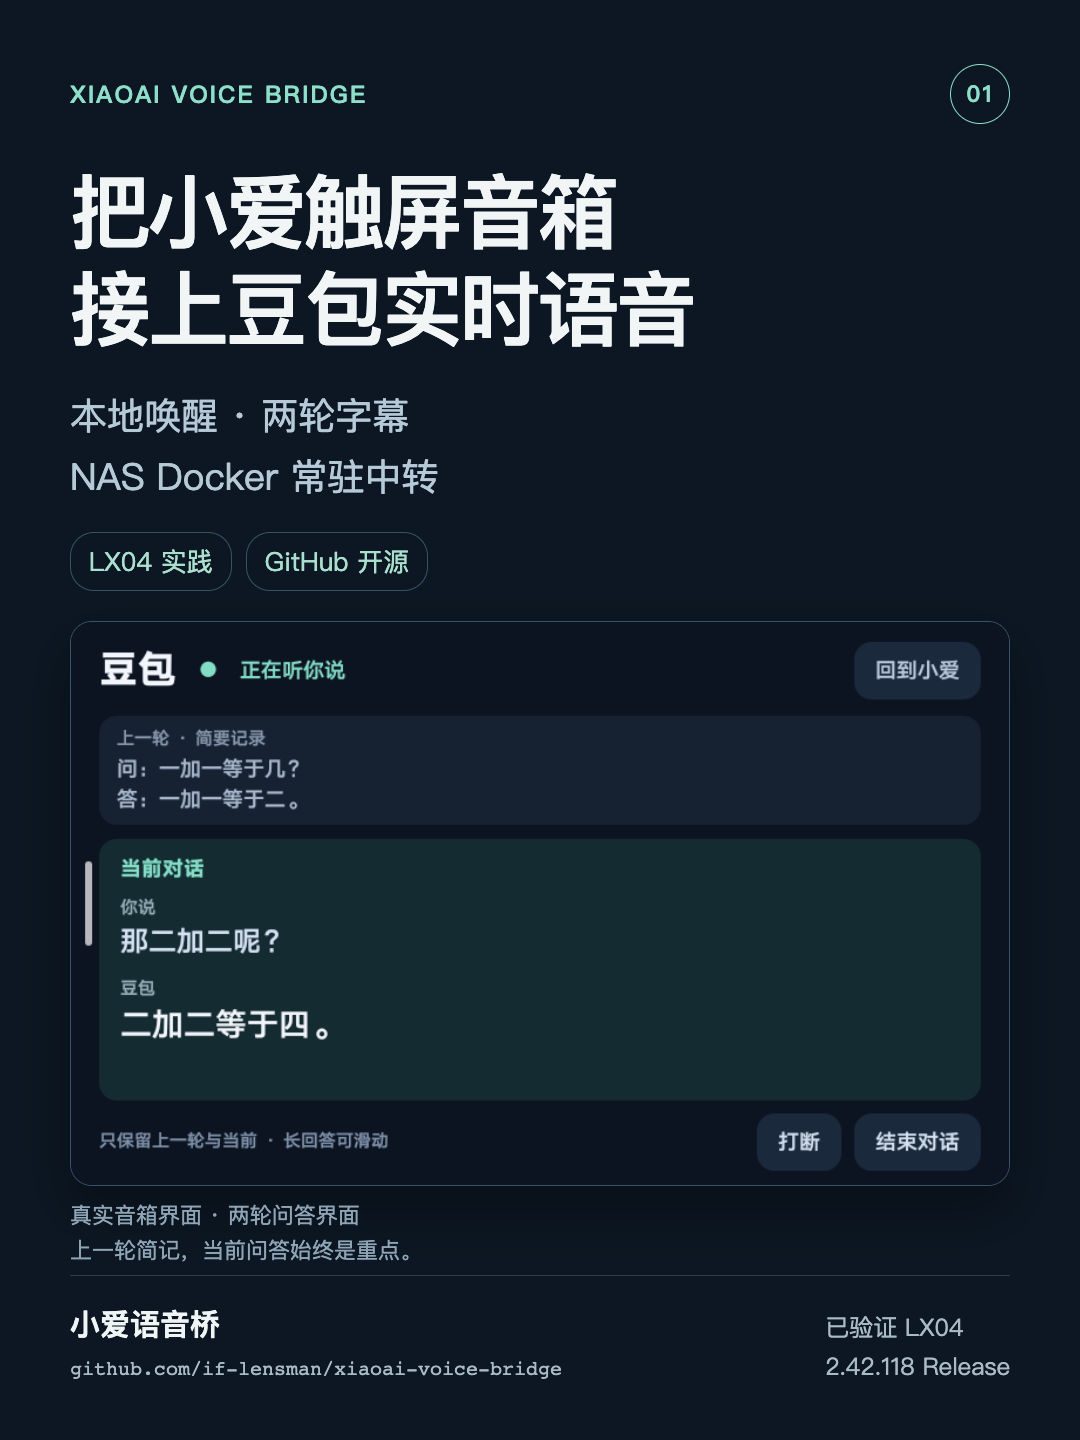
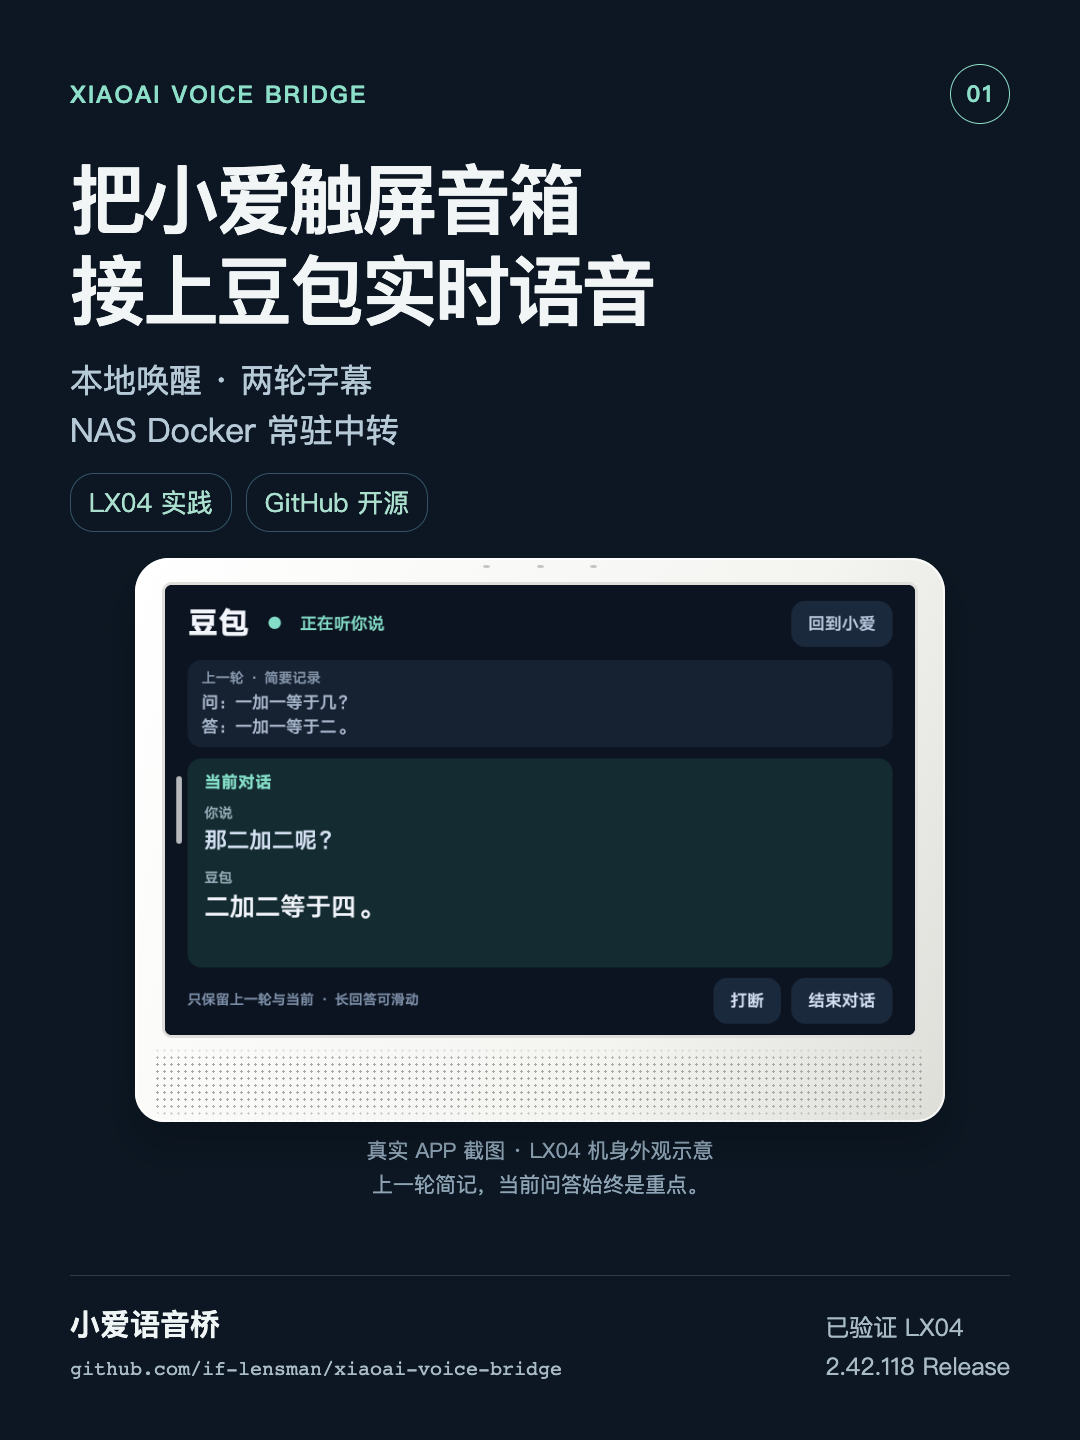
Frame APP screenshots in LX04 device mockups

Changed region(s): [[0.0611, 0.0938, 0.9167, 0.875]]

diff --git a/docs/cards/README.md b/docs/cards/README.md
@@ -1,6 +1,6 @@
 # 小爱语音桥 · 项目介绍图
 
-图片为 1080 × 1440，3:4 比例。截图来自实际 APP，内容为演示测试文字。
+图片为 1080 × 1440，3:4 比例。屏内截图来自实际 APP，内容为演示测试文字；白色 LX04 机身为外观示意，并非实物摄影。
 
 | 项目功能 | 运行架构 |
 |---|---|
